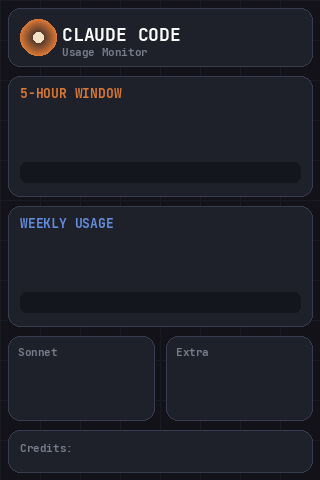
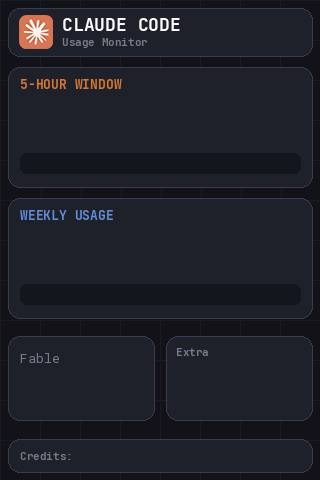
Show Fable usage from limits[] scoped model on Claude screen
The usage API now exposes per-model weekly limits in a limits[] array
(scope.model.display_name). Fable has a scoped weekly limit there while
the legacy seven_day_sonnet field stays null. Add a generic
model-scoped usage sensor and swap the always-N/A Sonnet widget for
Fable, relabelling the background accordingly.

diff --git a/library/sensors/sensors_custom.py b/library/sensors/sensors_custom.py
@@ -445,6 +445,50 @@ class ClaudeExtraUsage(CustomDataSource):
         pass
 
 
+def _model_scoped_percent(data: Optional[dict], model_name: str) -> Optional[float]:
+    """Return the weekly utilization (%) for a model from the 'limits' array,
+    matched on scope.model.display_name. Returns None when no such entry
+    exists (i.e. the model has no scoped limit on this account)."""
+    if not data:
+        return None
+    for limit in data.get("limits") or []:
+        scope = (limit or {}).get("scope") or {}
+        model = (scope.get("model") or {}).get("display_name")
+        if model and model.lower() == model_name.lower():
+            return float(limit.get("percent", 0) or 0)
+    return None
+
+
+class _ClaudeModelUsage(CustomDataSource):
+    """Base class: weekly usage (%) for a specific model from limits[]."""
+
+    model_name = ""
+
+    def as_numeric(self) -> float:
+        data = _ClaudeUsageCache.get()
+        self.pct = _model_scoped_percent(data, self.model_name)
+        self.value = self.pct if self.pct is not None else 0.0
+        return self.value
+
+    def as_string(self) -> str:
+        data = _ClaudeUsageCache.get()
+        pct = _model_scoped_percent(data, self.model_name)
+        if pct is None:
+            return "  N/A "
+        return f'{pct:>5.1f}%'
+
+    def last_values(self) -> List[float]:
+        pass
+
+
+class ClaudeFableUsage(_ClaudeModelUsage):
+    model_name = "Fable"
+
+
+class ClaudeOpusUsage(_ClaudeModelUsage):
+    model_name = "Opus"
+
+
 # ---------------------------------------------------------------------------
 # Escape from Tarkov quest tracking (TarkovTracker + tarkov.dev)
 # ---------------------------------------------------------------------------
